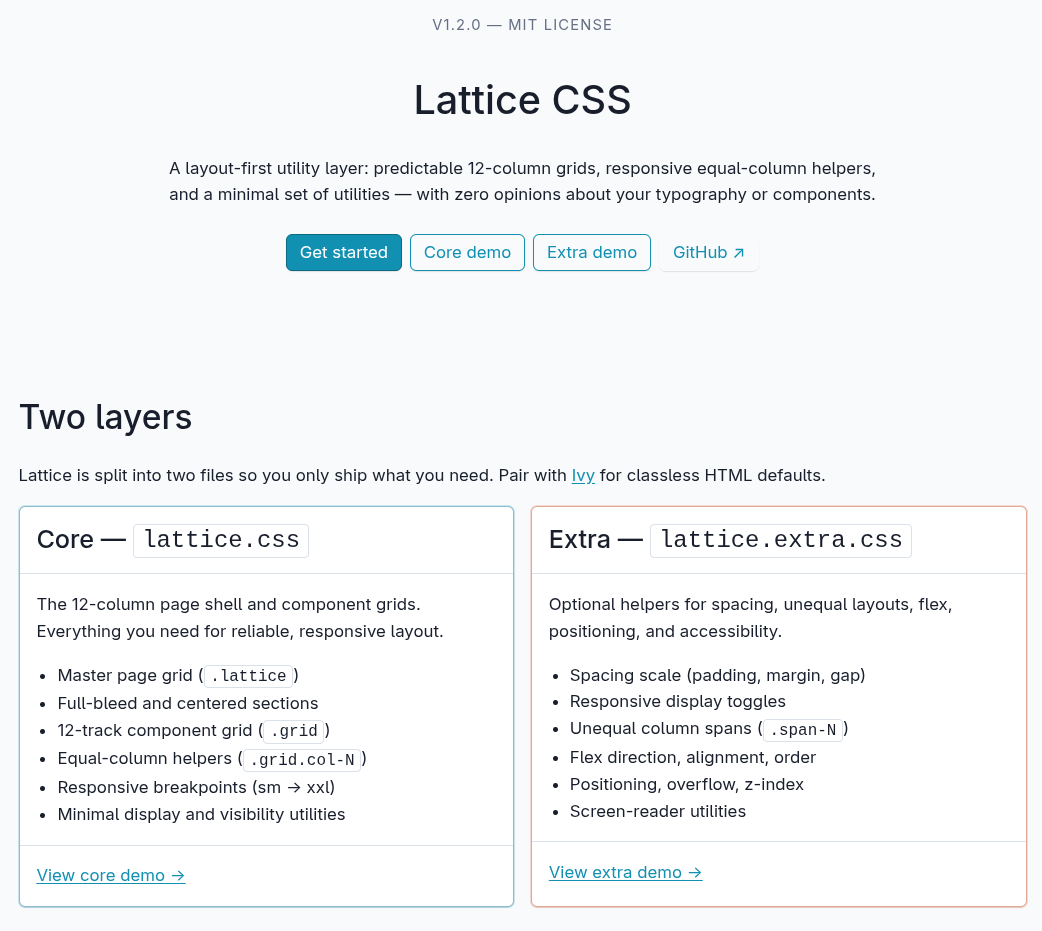
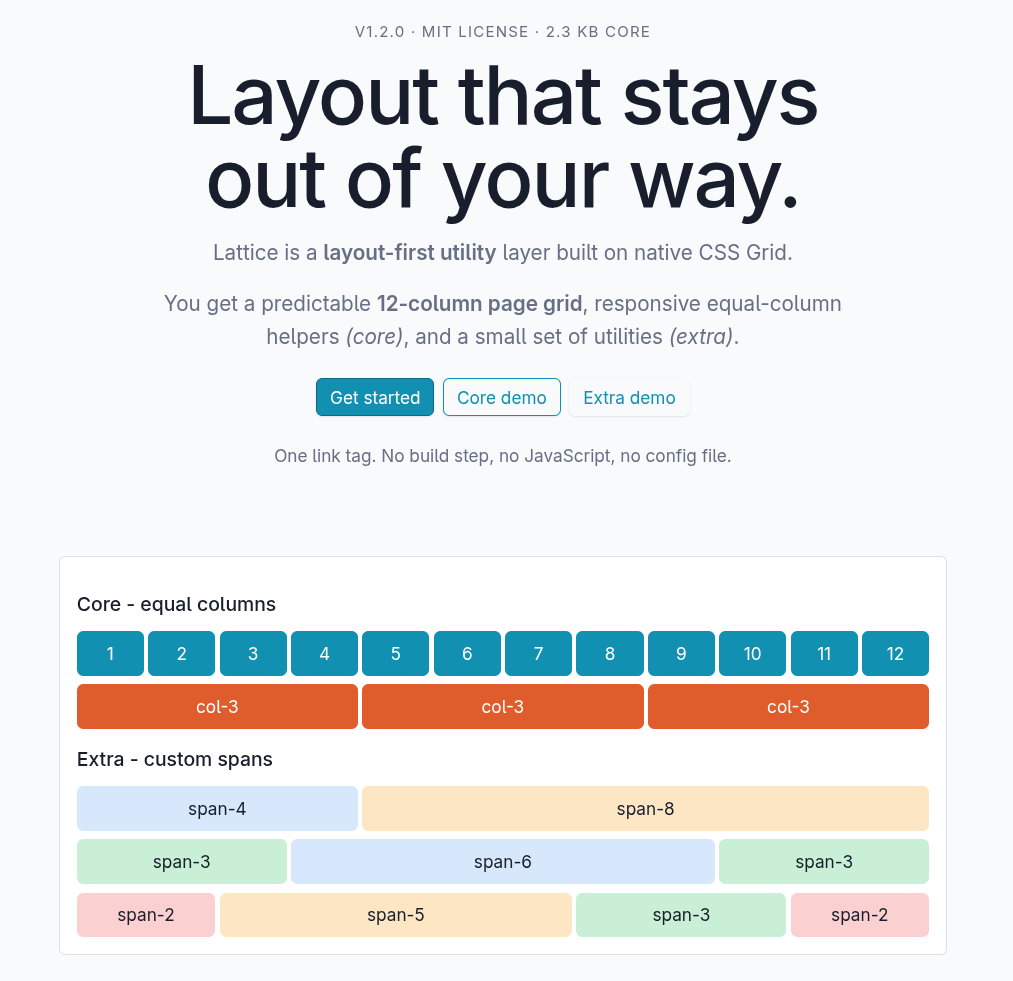
Updated README image and cleaned up examples page in docs.

diff --git a/docs/examples.html b/docs/examples.html
@@ -61,7 +61,7 @@
 
         <div class="box p-0">
           <div class="grid gap-0">
-            <nav class="d-none md-d-block md-span-3 demo p-3" data-tone="secondary" aria-label="Dashboard">
+            <nav class="d-none md-d-block md-span-3 demo p-3" data-tone="info" aria-label="Dashboard">
               <strong>Menu</strong>
               <ul class="p-0 mt-2 mx-0 mb-0" style="list-style:none">
                 <li class="py-1"><a href="#">Overview</a></li>
@@ -72,9 +72,9 @@
             </nav>
             <div class="span md-span-9 p-3">
               <div class="d-flex flex-wrap gap-3 mb-3">
-                <div class="flex-1 demo p-3" data-tone="info"><strong>128</strong><br><small>Active projects</small></div>
+                <div class="flex-1 demo p-3" data-tone="warn"><strong>128</strong><br><small>Active projects</small></div>
                 <div class="flex-1 demo p-3" data-tone="success"><strong>94%</strong><br><small>Uptime</small></div>
-                <div class="flex-1 demo p-3" data-tone="warn"><strong>12</strong><br><small>Open issues</small></div>
+                <div class="flex-1 demo p-3" data-tone="danger"><strong>12</strong><br><small>Open issues</small></div>
               </div>
               <div class="grid col-1 sm-col-2 lg-col-3 gap-3">
                 <div class="card"><header><h4>Project Alpha</h4></header><p>Stacks on mobile, 2-up at sm, 3-up at lg — independent of the outer sidebar grid.</p></div>
@@ -89,7 +89,7 @@
 
       <!-- 2) Article layout -->
       <section id="article">
-        <h2>Article Layout (Holy Grail)</h2>
+        <h2>Article Layout</h2>
         <p>Three independent <code>.span</code> regions — table of contents, article body, related links — that stack full-width on mobile and split 3/6/3 at <code>lg</code>.</p>
 
         <pre><code>&lt;div class="grid gap-3"&gt;
@@ -99,7 +99,7 @@
 &lt;/div&gt;</code></pre>
 
         <div class="grid gap-3">
-          <nav class="span lg-span-3 demo p-3" data-tone="secondary" aria-label="Table of contents">
+          <nav class="span lg-span-3 demo p-3" data-tone="success" aria-label="Table of contents">
             <strong>On this page</strong>
             <ul class="p-0 mt-2 mx-0 mb-0" style="list-style:none">
               <li class="py-1"><a href="#">Introduction</a></li>
@@ -181,16 +181,13 @@
 &lt;div class="grid col-1 sm-col-2 gap-2"&gt;…results…&lt;/div&gt;</code></pre>
 
         <div class="box p-0" style="max-height:16rem; overflow-y:auto;">
-          <div class="sticky d-flex flex-nowrap gap-2 overflow-x-auto p-2">
+          <div class="sticky d-flex flex-nowrap gap-2 p-2">
             <button type="button" class="flex-none" data-variant="primary">All</button>
             <button type="button" class="flex-none" data-variant="outline">Layout</button>
             <button type="button" class="flex-none" data-variant="outline">Spacing</button>
             <button type="button" class="flex-none" data-variant="outline">Flex</button>
-            <button type="button" class="flex-none" data-variant="outline">Grid</button>
-            <button type="button" class="flex-none" data-variant="outline">Accessibility</button>
-            <button type="button" class="flex-none" data-variant="outline">Positioning</button>
           </div>
-          <div class="grid col-1 sm-col-2 gap-2 p-2">
+          <div class="grid col-1 sm-col-2 gap-2 p-2 overflow-y-auto">
             <div class="demo p-2" data-tone="info">Result 1</div>
             <div class="demo p-2" data-tone="info">Result 2</div>
             <div class="demo p-2" data-tone="info">Result 3</div>
@@ -199,6 +196,14 @@
             <div class="demo p-2" data-tone="info">Result 6</div>
             <div class="demo p-2" data-tone="info">Result 7</div>
             <div class="demo p-2" data-tone="info">Result 8</div>
+            <div class="demo p-2" data-tone="info">Result 9</div>
+            <div class="demo p-2" data-tone="info">Result 10</div>
+            <div class="demo p-2" data-tone="info">Result 11</div>
+            <div class="demo p-2" data-tone="info">Result 12</div>
+            <div class="demo p-2" data-tone="info">Result 13</div>
+            <div class="demo p-2" data-tone="info">Result 14</div>
+            <div class="demo p-2" data-tone="info">Result 15</div>
+            <div class="demo p-2" data-tone="info">Result 16</div>
           </div>
         </div>
         <p><em>Scroll the box vertically — the filter row stays pinned to its top. Scroll it horizontally — the buttons overflow into a scrollbar instead of wrapping, thanks to <code>.flex-nowrap</code> + <code>.overflow-x-auto</code>.</em></p>
